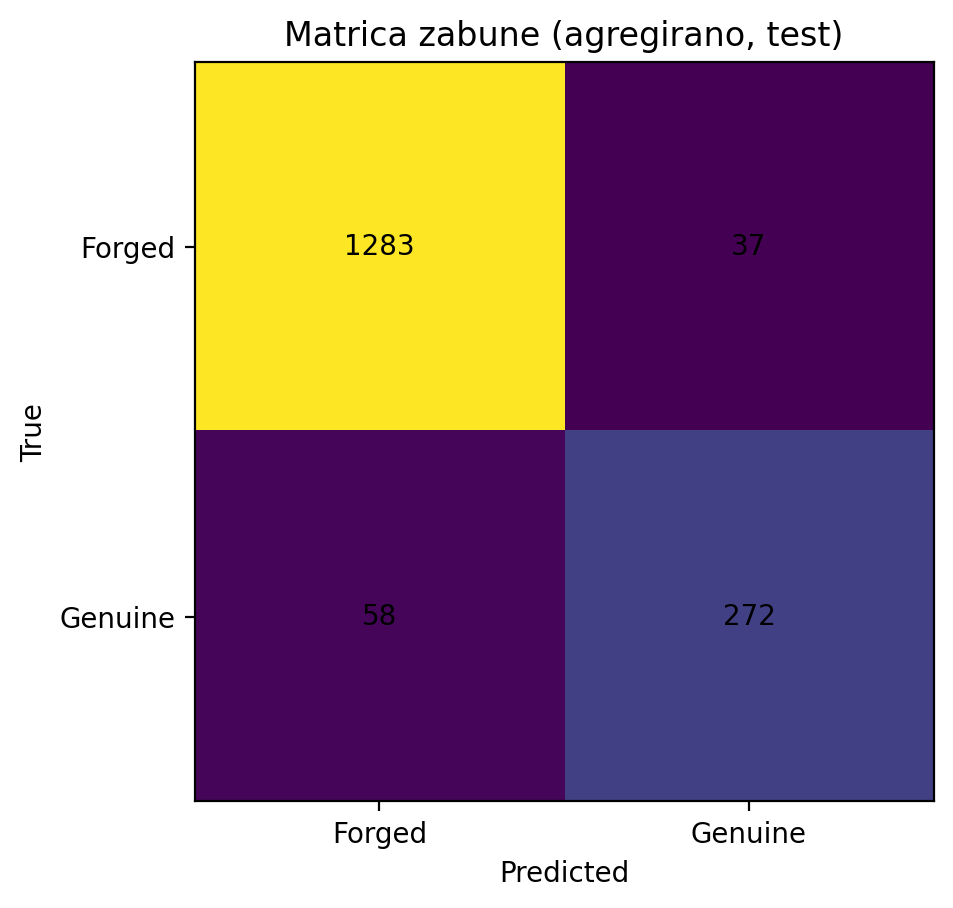
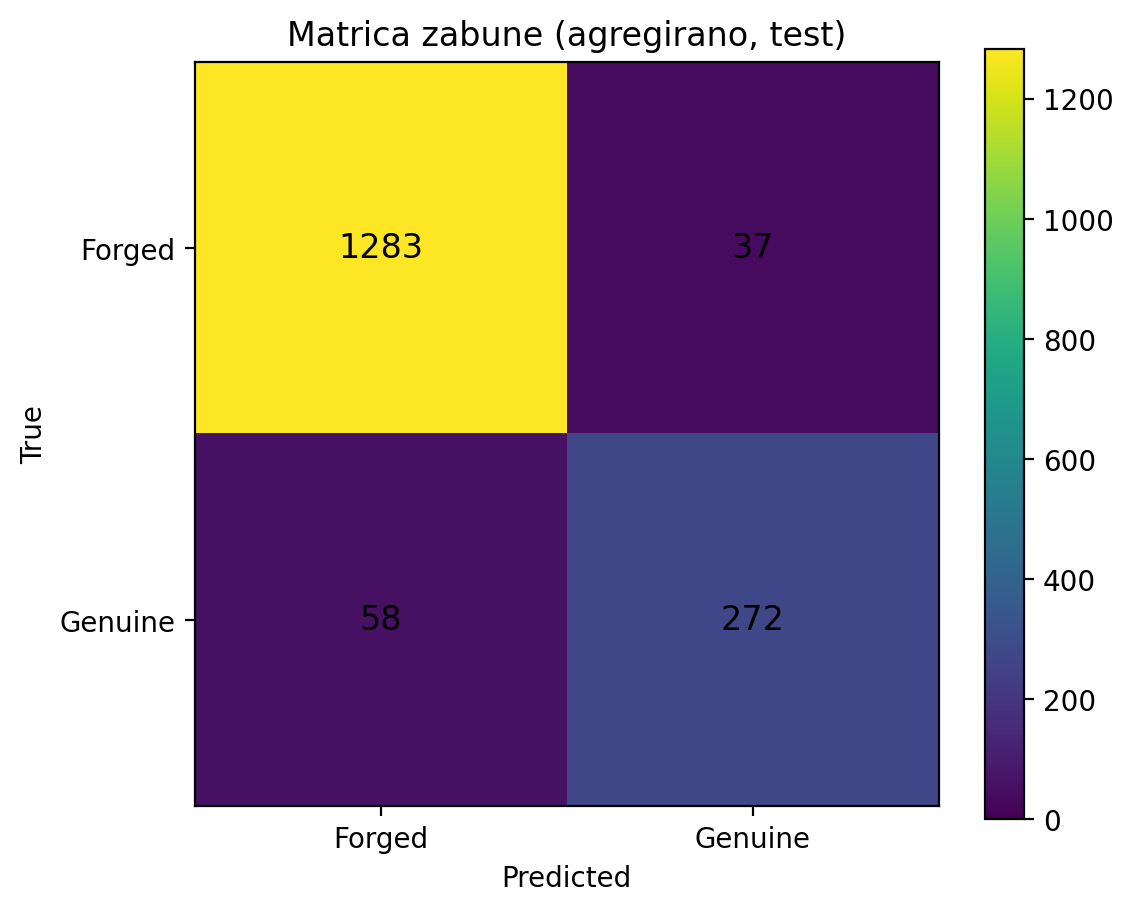
edit confusion matrix

diff --git a/code/plot_roc_pr.py b/code/plot_roc_pr.py
@@ -71,7 +71,7 @@ def main():
             np.zeros((len(X_neg),), dtype=int)
         ])
 
-        # decision_function score (veci score = vise "genuine")
+        # decision_function score (veći score = više "genuine")
         scores = clf.decision_function(X_test)
 
         # binarna odluka na pragu 0 (isti princip kao u trening skripti)
@@ -116,23 +116,36 @@ def main():
     plt.savefig(pr_path, dpi=200, bbox_inches="tight")
     plt.close()
 
-    # Confusion matrix heatmap (matplotlib)
-    tn, fp, fn, tp = confusion_matrix(y_true_all, y_pred_all, labels=[0, 1]).ravel()
-    cm = np.array([[tn, fp],
-                   [fn, tp]])
+    # Confusion matrix heatmap (matplotlib + colorbar)
+    tn, fp, fn, tp = confusion_matrix(
+        y_true_all, y_pred_all, labels=[0, 1]
+    ).ravel()
 
-    plt.figure()
-    plt.imshow(cm)
+    cm = np.array([[tn, fp],
+                [fn, tp]])
+
+    plt.figure(figsize=(6, 5))
+    im = plt.imshow(cm, cmap="viridis", vmin=0)
+
+    # Okomita legenda boja
+    cbar = plt.colorbar(im)
+
+    # Brojevi u ćelijama
     for (i, j), v in np.ndenumerate(cm):
-        plt.text(j, i, str(v), ha="center", va="center")
+        plt.text(j, i, str(v),
+                ha="center", va="center",
+                color="black", fontsize=12)
+
     plt.xticks([0, 1], ["Forged", "Genuine"])
     plt.yticks([0, 1], ["Forged", "Genuine"])
     plt.xlabel("Predicted")
     plt.ylabel("True")
     plt.title("Matrica zabune (agregirano, test)")
+
     cm_path = os.path.join(out_dir, "confusion_matrix.png")
     plt.savefig(cm_path, dpi=200, bbox_inches="tight")
     plt.close()
+
 
     print("Gotovo.")
     print("Osoba korišteno:", used_persons, "| Nedostaje modela:", missing_models)
